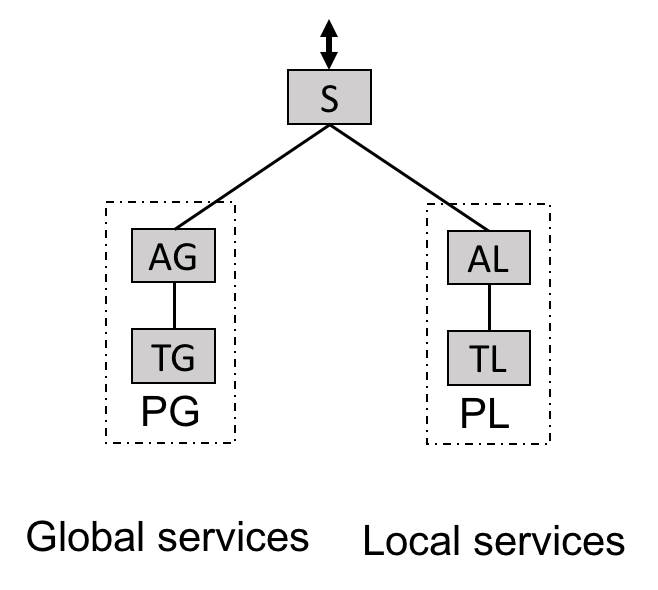
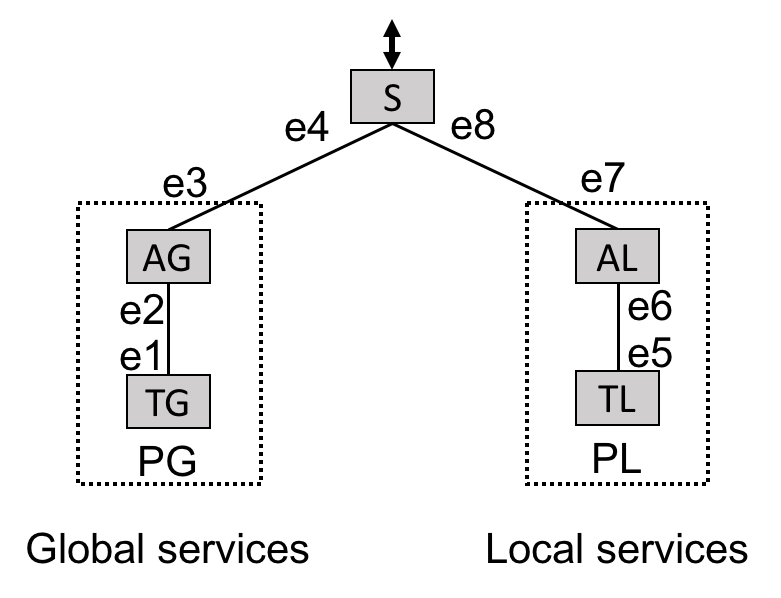
update section 3

diff --git a/paper/abstraction/paper.tex b/paper/abstraction/paper.tex
@@ -487,9 +487,26 @@ behavior for both of the datacenter topologies in figures~\ref{fig:example} and~
 \sysname achieves this by allowing the operator to abstract the network into 
 a role-based topology that captures a class of concrete topologies and then write a 
 routing specification over this abstraction. Figure~\ref{fig:example3} shows an example of one 
-such abstraction for the datacenter networks. The network is partitioned into 5 different roles:
+such abstraction for the datacenter networks. 
+
+The network is partitioned into 5 different roles:
 local tor (TL), global tor (TG), local aggregator (AL), global aggregator (AG), and spine (S).
-Each router in the concrete topology maps to exactly one abstract role. 
+Intuitively, each concrete router in the network must map to exactly one role.
+Whenever there is a link between routers in the concrete network, there must be an associated link
+between their abstract roles. Thus the role-based abstraction is an overapproximation of the connectivity
+of the concrete network.
+
+In order to refine the abstraction to capture more precisely the kinds of concrete networks of interest, 
+we introduce a notion of node and edge \emph{multiplicities}. Each edge (and node) is labelled
+with a symbolic variable (\EG, $e1, e2, \ldots$) that denotes a constraint on the number of nodes/edges 
+that may appear in any given concrete network. Operators can then add constraints to relate symbolic 
+variables taken from any valid SMT theory. For example, in Figure~\ref{fig:example3}, the variable $e1$
+represents the number of outgoing edges from any concrete node mapped to the TG role to other concrete
+nodes mapped to the AG role. Similarly, we introduce a node multiplicity variable for each role. For example,
+the multiplicity variable $AG$ represents the number of concrete nodes that map the the AG role. We can then 
+add constraints over these symbolic variables to capture invariants in the concrete networks. For example, 
+if we only want to consider networks where TG and AG routers form a full mesh in each pod we would add the
+following constraints: $e1 = AG$, $e2 = TG$. \ryan{how to add the constraints to the image? in latex or powerpoint?}
 
 %Although the concrete \sysname policy can help prevent a number of configuration errors, 
 %the policy is intricately linked to the actual structure of the concrete network.
@@ -509,78 +526,94 @@ Each router in the concrete topology maps to exactly one abstract role.
 
 \begin{figure}[t!]
   \centering
-  \includegraphics[width=.6\columnwidth]{figures/example3}
-  \caption{Role-based abstraction for the datacenter in Figure~\ref{fig:example}.}
+  \includegraphics[width=.7\columnwidth]{figures/example3}
+  \caption{Role-based abstraction for the datacenters in Figure~\ref{fig:example}.}
   \label{fig:example3}
   \vspace{-1em}
 \end{figure}
 
-Consider again the datacenter routing policy we wrote before. 
-%
-We will now rewrite the policy over the network abstraction shown in figure~\ref{fig:example3}.
-This abstraction splits the network into 5 roles: local tor, global tor, local aggregator, global 
-aggregator, and spine. Intuitively, each concrete router in the network must map to exactly one role.
-Whenever there is a link between routers in the concrete network, there must be an associated link
-between their abstract roles. Thus the role-based abstraction is an overapproximation of the connectivity
-of the concrete network.
 
-The new routing policy can only refer to locations in the abstract topology. We choose these 5 roles,
-since its gives us fine enough granularity to implement our policy, but is general enough to enable 
-expansion (\EG, by adding new concrete routers for a given role).
-
-We can modify the concrete routing policy for this abstraction in the following way. First we change the Routing policy:
+Now let us configure the datacenter networks by writing a routing policy over the 
+abstract topology. The first part of the policy will be:
 %
 \begin{code}
 \Define Routing =
     \{\$PG \Path \End(TG)
      \$PL \Path \End(TL)
-     \True \Path \Exit(Peer1 \Prefer Peer2) \}
+     \True \Path \Exit(Peer1 \Prefer Peer2)\}
 \end{code}
 \noindent%
 
-Here we introduce two prefix \emph{template} variables. The policy says that traffic for each 
-global prefix associated with the template variable \$PG should end up at its corresponding 
-destination router contained in the abstract TG role. The second line does something similar 
-for all local prefixes. Finally, the last line remains the same as before. 
+This defines a group of constraints for the basic routing behavior. 
+%
+The first line introduces a prefix \emph{template} variable. It says that traffic for each 
+global prefix associated with the template variable \$PG has the constraint that it should follow 
+a path that ends at its corresponding destination router contained in the abstract TG role. 
+The second line does the same thing for all local prefixes. 
+The final rule matches all other
+IP prefix destinations and allows traffic to follow a path that leaves the datacenter through either
+of its peers (Peer1 or Peer2) with a preference for leaving through Peer1. The \Prefer~ symbol indicates
+that traffic should satisfy the constraint on the left whenever possible, and only resort to the backup (right)
+when this is not possible due to failures.%
 
-Next we can modify the Locality constraint for the abstraction in a straightforward way:
+Next we can capture the constraint that traffic for local prefixes must stay local to the datacenter.
+We do this with the following \sysname code:
 %
 \begin{code}
 \Define Locality = \{\$PL \Path \Always(\In)\}
 \end{code}
 \noindent%
+%
+The Locality constraint applies to any traffic destined for a local prefix and adds
+the constraint that the traffic must follow a path that matches an internal location 
+(\IE, a router inside the datacenter) at each hop of the path. This prevents traffic 
+from ever entering from or leaving through an external peer. Finally, we can combine 
+these constraints together as follows:
 
-Finally, we can add the "valleyfree" constraint. We are able to encode this constraint for the
-abstract topology because we have retained enough structure to understand what a valley is. 
+%
+%Finally, we can add the "valleyfree" constraint. We are able to encode this constraint for the
+%abstract topology because we have retained enough structure to understand what a valley is. 
+%
+%\begin{code}
+%\Define Tor = \{TL,TG\}
+%\Define Agg = \{AL,AG\}
+%\Define Spn = \{S\}
+%\Define ValleyFree =
+%    \{\True \Path \Novalley(Tor,Agg,Spn)\}
+%\end{code}
+%\noindent%
+%
+%The constraint prevents traffic from over taking a path that traverses 
+%either [Agg->Tor->Agg] or [Spn->Agg->Spn]. The final policy remains the same as before,
+%by combining each of these policies together.
+%
 %
 \begin{code}
-\Define Tor = \{TL,TG\}
-\Define Agg = \{AL,AG\}
-\Define Spn = \{S\}
-\Define ValleyFree =
-    \{\True \Path \Novalley(Tor,Agg,Spn)\}
+\Define Main = Routing & Locality & \Agg(PG, \In -> \Out)
 \end{code}
 \noindent%
 
-The constraint prevents traffic from over taking a path that traverses 
-either [Agg->Tor->Agg] or [Spn->Agg->Spn]. The final policy remains the same as before,
-by combining each of these policies together.
-%
-\begin{code}
-\Define Main = 
-    Routing & 
-    Locality & 
-    ValleyFree & 
-    \Agg(PG, \In -> \Out)
-\end{code}
-\noindent%
+This defines the main policy as the conjunction of the Routing and Locality constraints. It 
+also declares an additional constraint that we want to perform aggregation for global prefixes
+by summarizing them into the more general prefix PG at the border of the datacenter
+(\IE along any edge starting inside our datacenter and ending outside).
 
 When \sysname compiles the above policy, it guarantees that the forwarding behavior 
 of the network will be correct for any concrete instantiation of the abstract network,
 and for any combination of failures that may occur in the concrete network.
-Furthermore, if we want to expand our network for example by adding additional spine 
-routers, \sysname will guarantee that the expansion will be incremental (\IE, only
+Furthermore, \sysname will generate configurations in such a way that,
+if we want to expand our network (\EG, by adding additional spine routers as in 
+figure~\ref{fig:example2}), the expansion will be incremental (\IE, only
 configurations for routers local to the expansion will need to change).
+
+\subsection{Abstract Analysis}
+
+Although \sysname can ensure correct forwarding behavior independent of the 
+exact concrete topology or failure scenario, it is often useful to be able 
+to ask "what if" questions. To this end, we develop sound analyses over the
+abstract topology to answer questions about worst-case connectivity.  
+
+
 
 \subsection{Language}
 
